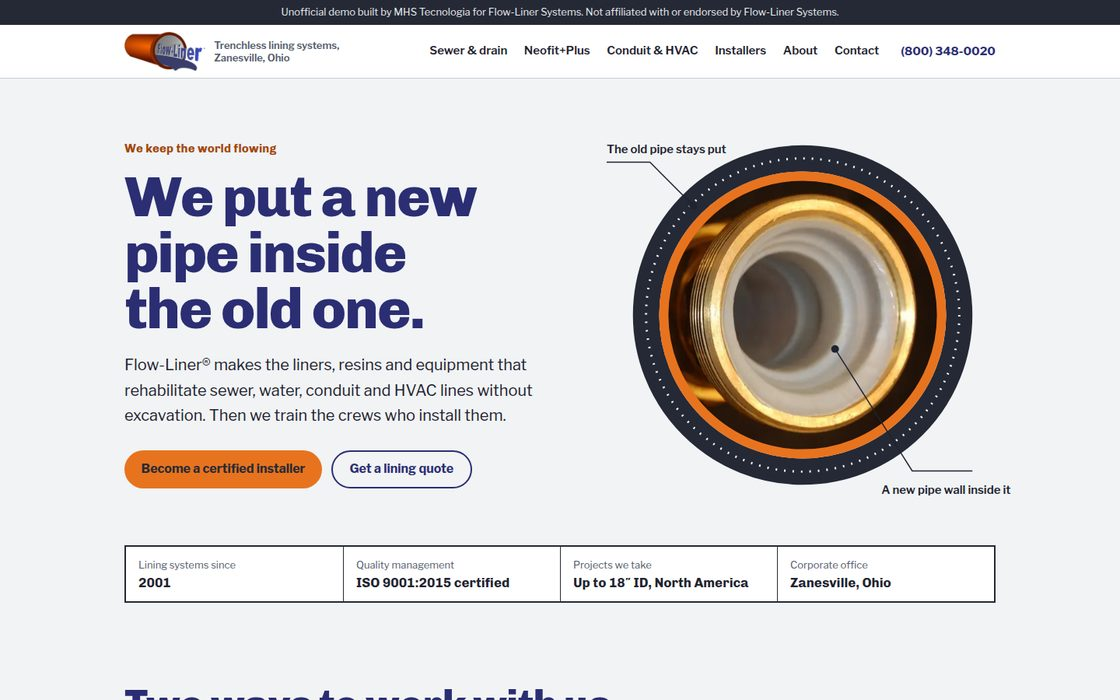
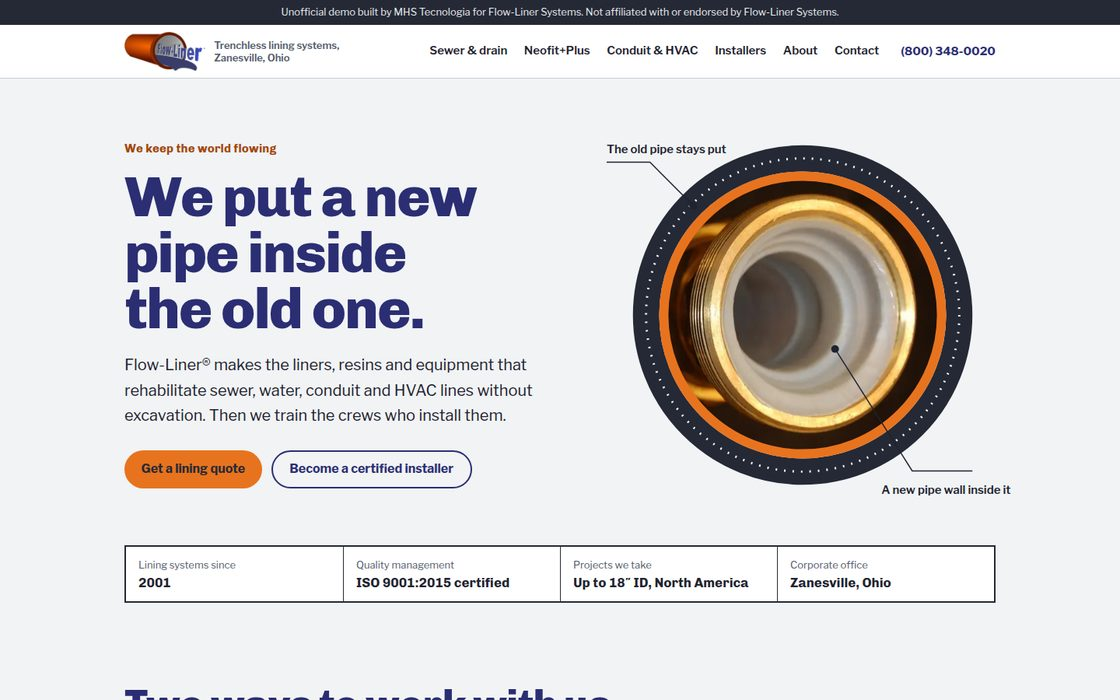
Previews: 19 ativos

Changed region(s): [[0.125, 0.63, 0.4062, 0.72]]

diff --git a/flow-liner-systems-zanesville-oh/index.html b/flow-liner-systems-zanesville-oh/index.html
@@ -179,7 +179,10 @@ p { max-width: 64ch; }
 .train-pics .tall { grid-row: span 2; }
 
 /* Clients */
-.clients { columns: 4 12rem; column-gap: 2rem; list-style: none; padding: 0; }
+.top-clients { list-style: none; padding: 0; display: grid; grid-template-columns: repeat(4, minmax(0, 1fr)); gap: 1rem; margin-bottom: 2rem; }
+.top-clients li { font: 800 clamp(1.25rem, 2.2vw, 1.75rem)/1.15 "Chivo", sans-serif; color: var(--flow-deep); padding-top: .8rem; border-top: 4px solid var(--liner); }
+@media (max-width: 640px) { .top-clients { grid-template-columns: 1fr 1fr; } }
+.clients { font-size: .9375rem; color: var(--muted); columns: 4 12rem; column-gap: 2rem; list-style: none; padding: 0; }
 .clients li { padding: .45rem 0; border-bottom: 1px solid var(--rule); break-inside: avoid; font-weight: 500; }
 .callout { display: grid; grid-template-columns: repeat(2, minmax(0, 1fr)); gap: 1.5rem; margin-bottom: 2.5rem; }
 .callout div { border-left: 4px solid var(--liner); padding-left: 1rem; }
@@ -327,8 +330,8 @@ footer a { color: var(--flow-deep); }
         <h1 id="h1">We put a new pipe inside the old one.</h1>
         <p class="lede">Flow-Liner® makes the liners, resins and equipment that rehabilitate sewer, water, conduit and HVAC lines without excavation. Then we train the crews who install them.</p>
         <div class="ctas">
-          <a class="btn btn-liner" id="hero-cta" href="installers.html">Become a certified installer</a>
-          <a class="btn btn-line" href="contact.html">Get a lining quote</a>
+          <a class="btn btn-liner" id="hero-cta" href="contact.html">Get a lining quote</a>
+          <a class="btn btn-line" href="installers.html">Become a certified installer</a>
         </div>
       </div>
       <div class="bore">
@@ -476,7 +479,8 @@ footer a { color: var(--flow-deep); }
       <h2 id="clients-h">Where our liners have gone</h2>
       <p>Our CIP-Conduit® was used in The White House utility renovation project, and in a project for the US Navy in 2012. Some of the clients we list:</p>
     </div>
-    <ul class="clients"><li>AEP</li><li>Air National Guard</li><li>AK Steel</li><li>Anheuser-Busch</li><li>Bloomsburg University</li><li>Coshocton Fire Department</li><li>Duke Energy</li><li>ERGON</li><li>FBI</li><li>Grand Central Station</li><li>Grove City Medical Center</li><li>Kalahari Resort</li><li>Lane Aviation</li><li>McDonald’s</li><li>Morris Sheppard Dam</li><li>Navy</li><li>Ohio State University</li><li>Palace Theatre</li><li>PECO</li><li>Roosevelt Memorial</li><li>Starbucks</li><li>The Columbus Zoo</li><li>The Pentagon</li><li>The White House</li><li>Wayne County Courthouse</li><li>West Virginia University</li></ul>
+    <ul class="top-clients"><li>The White House</li><li>FBI</li><li>Anheuser-Busch</li><li>Ohio State University</li></ul>
+    <ul class="clients"><li>AEP</li><li>Air National Guard</li><li>AK Steel</li><li>Bloomsburg University</li><li>Coshocton Fire Department</li><li>Duke Energy/Austin Technical Services</li><li>ERGON</li><li>Grand Central Station/GTF Joint Venture</li><li>Grove City Medical Center</li><li>Kalahari Resort</li><li>Lane Aviation</li><li>McDonalds</li><li>Morris Sheppard Dam/Conti Corporation</li><li>Navy</li><li>Palace Theatre/Sauer Group</li><li>PECO</li><li>Roosevelt Memorial/Potomac Restoration</li><li>Starbucks</li><li>The Columbus Zoo</li><li>The Pentagon/B3 Enterprises</li><li>Wayne County Courthouse</li><li>West Virginia University</li></ul>
   </div>
 </section>
 <section class="sec iron" aria-labelledby="closer-h">

diff --git a/flow-liner-systems-zanesville-oh/about.html b/flow-liner-systems-zanesville-oh/about.html
@@ -179,7 +179,10 @@ p { max-width: 64ch; }
 .train-pics .tall { grid-row: span 2; }
 
 /* Clients */
-.clients { columns: 4 12rem; column-gap: 2rem; list-style: none; padding: 0; }
+.top-clients { list-style: none; padding: 0; display: grid; grid-template-columns: repeat(4, minmax(0, 1fr)); gap: 1rem; margin-bottom: 2rem; }
+.top-clients li { font: 800 clamp(1.25rem, 2.2vw, 1.75rem)/1.15 "Chivo", sans-serif; color: var(--flow-deep); padding-top: .8rem; border-top: 4px solid var(--liner); }
+@media (max-width: 640px) { .top-clients { grid-template-columns: 1fr 1fr; } }
+.clients { font-size: .9375rem; color: var(--muted); columns: 4 12rem; column-gap: 2rem; list-style: none; padding: 0; }
 .clients li { padding: .45rem 0; border-bottom: 1px solid var(--rule); break-inside: avoid; font-weight: 500; }
 .callout { display: grid; grid-template-columns: repeat(2, minmax(0, 1fr)); gap: 1.5rem; margin-bottom: 2.5rem; }
 .callout div { border-left: 4px solid var(--liner); padding-left: 1rem; }

diff --git a/flow-liner-systems-zanesville-oh/conduit-hvac.html b/flow-liner-systems-zanesville-oh/conduit-hvac.html
@@ -178,7 +178,10 @@ p { max-width: 64ch; }
 .train-pics .tall { grid-row: span 2; }
 
 /* Clients */
-.clients { columns: 4 12rem; column-gap: 2rem; list-style: none; padding: 0; }
+.top-clients { list-style: none; padding: 0; display: grid; grid-template-columns: repeat(4, minmax(0, 1fr)); gap: 1rem; margin-bottom: 2rem; }
+.top-clients li { font: 800 clamp(1.25rem, 2.2vw, 1.75rem)/1.15 "Chivo", sans-serif; color: var(--flow-deep); padding-top: .8rem; border-top: 4px solid var(--liner); }
+@media (max-width: 640px) { .top-clients { grid-template-columns: 1fr 1fr; } }
+.clients { font-size: .9375rem; color: var(--muted); columns: 4 12rem; column-gap: 2rem; list-style: none; padding: 0; }
 .clients li { padding: .45rem 0; border-bottom: 1px solid var(--rule); break-inside: avoid; font-weight: 500; }
 .callout { display: grid; grid-template-columns: repeat(2, minmax(0, 1fr)); gap: 1.5rem; margin-bottom: 2.5rem; }
 .callout div { border-left: 4px solid var(--liner); padding-left: 1rem; }

diff --git a/flow-liner-systems-zanesville-oh/contact.html b/flow-liner-systems-zanesville-oh/contact.html
@@ -178,7 +178,10 @@ p { max-width: 64ch; }
 .train-pics .tall { grid-row: span 2; }
 
 /* Clients */
-.clients { columns: 4 12rem; column-gap: 2rem; list-style: none; padding: 0; }
+.top-clients { list-style: none; padding: 0; display: grid; grid-template-columns: repeat(4, minmax(0, 1fr)); gap: 1rem; margin-bottom: 2rem; }
+.top-clients li { font: 800 clamp(1.25rem, 2.2vw, 1.75rem)/1.15 "Chivo", sans-serif; color: var(--flow-deep); padding-top: .8rem; border-top: 4px solid var(--liner); }
+@media (max-width: 640px) { .top-clients { grid-template-columns: 1fr 1fr; } }
+.clients { font-size: .9375rem; color: var(--muted); columns: 4 12rem; column-gap: 2rem; list-style: none; padding: 0; }
 .clients li { padding: .45rem 0; border-bottom: 1px solid var(--rule); break-inside: avoid; font-weight: 500; }
 .callout { display: grid; grid-template-columns: repeat(2, minmax(0, 1fr)); gap: 1.5rem; margin-bottom: 2.5rem; }
 .callout div { border-left: 4px solid var(--liner); padding-left: 1rem; }

diff --git a/flow-liner-systems-zanesville-oh/installers.html b/flow-liner-systems-zanesville-oh/installers.html
@@ -179,7 +179,10 @@ p { max-width: 64ch; }
 .train-pics .tall { grid-row: span 2; }
 
 /* Clients */
-.clients { columns: 4 12rem; column-gap: 2rem; list-style: none; padding: 0; }
+.top-clients { list-style: none; padding: 0; display: grid; grid-template-columns: repeat(4, minmax(0, 1fr)); gap: 1rem; margin-bottom: 2rem; }
+.top-clients li { font: 800 clamp(1.25rem, 2.2vw, 1.75rem)/1.15 "Chivo", sans-serif; color: var(--flow-deep); padding-top: .8rem; border-top: 4px solid var(--liner); }
+@media (max-width: 640px) { .top-clients { grid-template-columns: 1fr 1fr; } }
+.clients { font-size: .9375rem; color: var(--muted); columns: 4 12rem; column-gap: 2rem; list-style: none; padding: 0; }
 .clients li { padding: .45rem 0; border-bottom: 1px solid var(--rule); break-inside: avoid; font-weight: 500; }
 .callout { display: grid; grid-template-columns: repeat(2, minmax(0, 1fr)); gap: 1.5rem; margin-bottom: 2.5rem; }
 .callout div { border-left: 4px solid var(--liner); padding-left: 1rem; }

diff --git a/flow-liner-systems-zanesville-oh/neofit.html b/flow-liner-systems-zanesville-oh/neofit.html
@@ -179,7 +179,10 @@ p { max-width: 64ch; }
 .train-pics .tall { grid-row: span 2; }
 
 /* Clients */
-.clients { columns: 4 12rem; column-gap: 2rem; list-style: none; padding: 0; }
+.top-clients { list-style: none; padding: 0; display: grid; grid-template-columns: repeat(4, minmax(0, 1fr)); gap: 1rem; margin-bottom: 2rem; }
+.top-clients li { font: 800 clamp(1.25rem, 2.2vw, 1.75rem)/1.15 "Chivo", sans-serif; color: var(--flow-deep); padding-top: .8rem; border-top: 4px solid var(--liner); }
+@media (max-width: 640px) { .top-clients { grid-template-columns: 1fr 1fr; } }
+.clients { font-size: .9375rem; color: var(--muted); columns: 4 12rem; column-gap: 2rem; list-style: none; padding: 0; }
 .clients li { padding: .45rem 0; border-bottom: 1px solid var(--rule); break-inside: avoid; font-weight: 500; }
 .callout { display: grid; grid-template-columns: repeat(2, minmax(0, 1fr)); gap: 1.5rem; margin-bottom: 2.5rem; }
 .callout div { border-left: 4px solid var(--liner); padding-left: 1rem; }

diff --git a/flow-liner-systems-zanesville-oh/sewer-drain.html b/flow-liner-systems-zanesville-oh/sewer-drain.html
@@ -179,7 +179,10 @@ p { max-width: 64ch; }
 .train-pics .tall { grid-row: span 2; }
 
 /* Clients */
-.clients { columns: 4 12rem; column-gap: 2rem; list-style: none; padding: 0; }
+.top-clients { list-style: none; padding: 0; display: grid; grid-template-columns: repeat(4, minmax(0, 1fr)); gap: 1rem; margin-bottom: 2rem; }
+.top-clients li { font: 800 clamp(1.25rem, 2.2vw, 1.75rem)/1.15 "Chivo", sans-serif; color: var(--flow-deep); padding-top: .8rem; border-top: 4px solid var(--liner); }
+@media (max-width: 640px) { .top-clients { grid-template-columns: 1fr 1fr; } }
+.clients { font-size: .9375rem; color: var(--muted); columns: 4 12rem; column-gap: 2rem; list-style: none; padding: 0; }
 .clients li { padding: .45rem 0; border-bottom: 1px solid var(--rule); break-inside: avoid; font-weight: 500; }
 .callout { display: grid; grid-template-columns: repeat(2, minmax(0, 1fr)); gap: 1.5rem; margin-bottom: 2.5rem; }
 .callout div { border-left: 4px solid var(--liner); padding-left: 1rem; }
